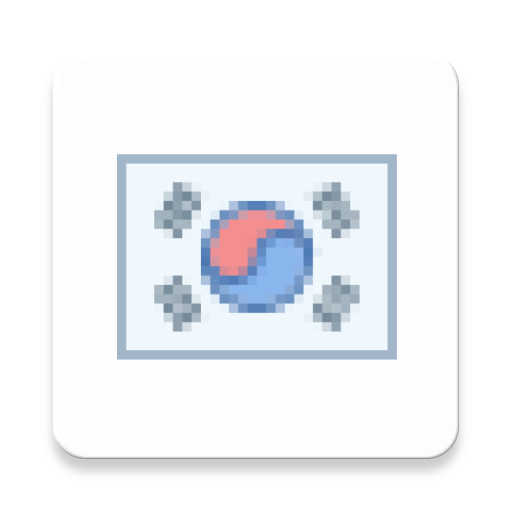
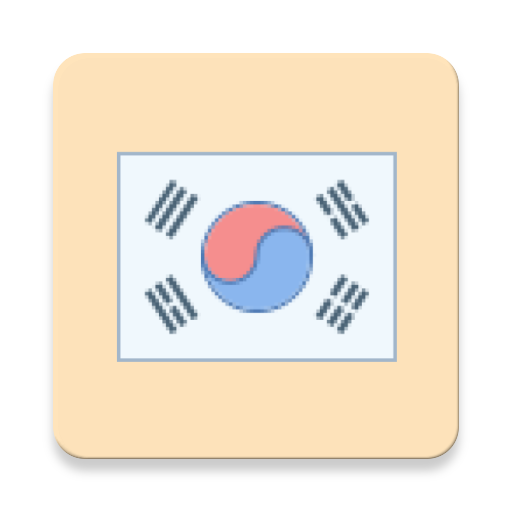
fixed UI

diff --git a/app/src/main/java/com/example/serokorean/MainActivity.java b/app/src/main/java/com/example/serokorean/MainActivity.java
@@ -33,6 +33,8 @@ public class MainActivity extends AppCompatActivity {
         viewPager = findViewById(R.id.viewPager);
         viewPager.setAdapter(adapter);
         viewPager.setPadding(50, 0 ,50 ,0);
+//        int marginPx = getResources().getDimensionPixelSize(R.dimen.page_margin);
+//        viewPager.setPageMargin(marginPx);
 
         Integer[] colors_temp = {
                 getResources().getColor(R.color.beginnerone),
@@ -50,9 +52,7 @@ public class MainActivity extends AppCompatActivity {
                 if((position < (adapter.getCount()) - 1) && position < (colors.length - 1)){
                     viewPager.setBackgroundColor(
                             (Integer) argbEvaluator.evaluate(
-                                    positionOffset,
-                                    colors[position],
-                                    colors[position + 1]
+                                    positionOffset, colors[position], colors[position + 1]
                             )
                     );
                 }else{
